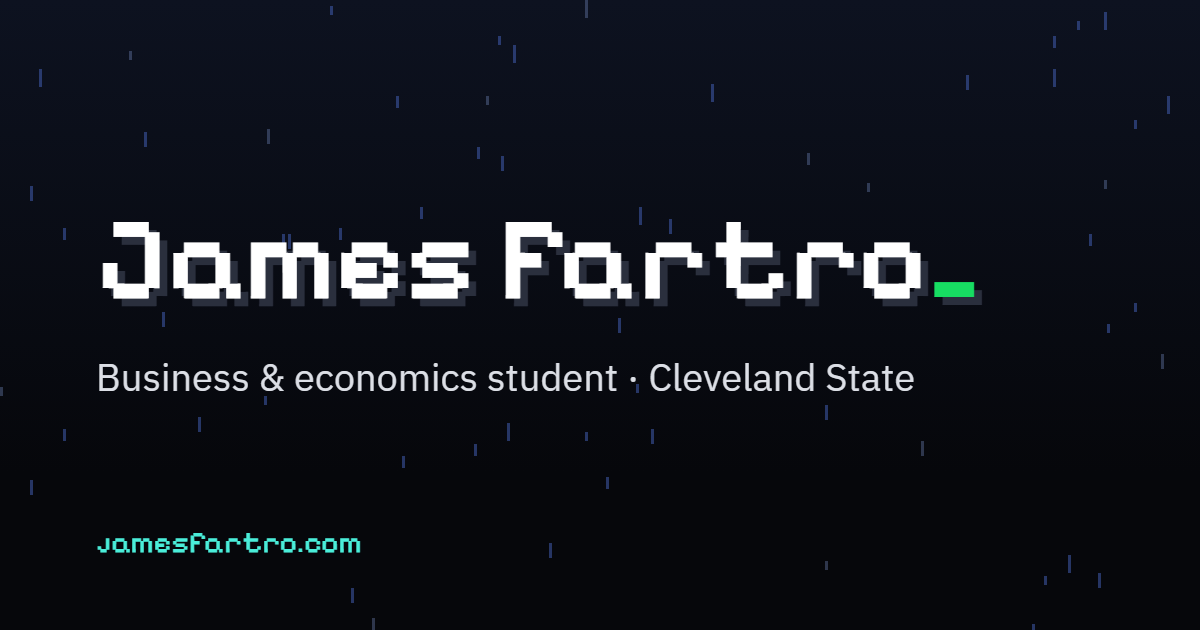
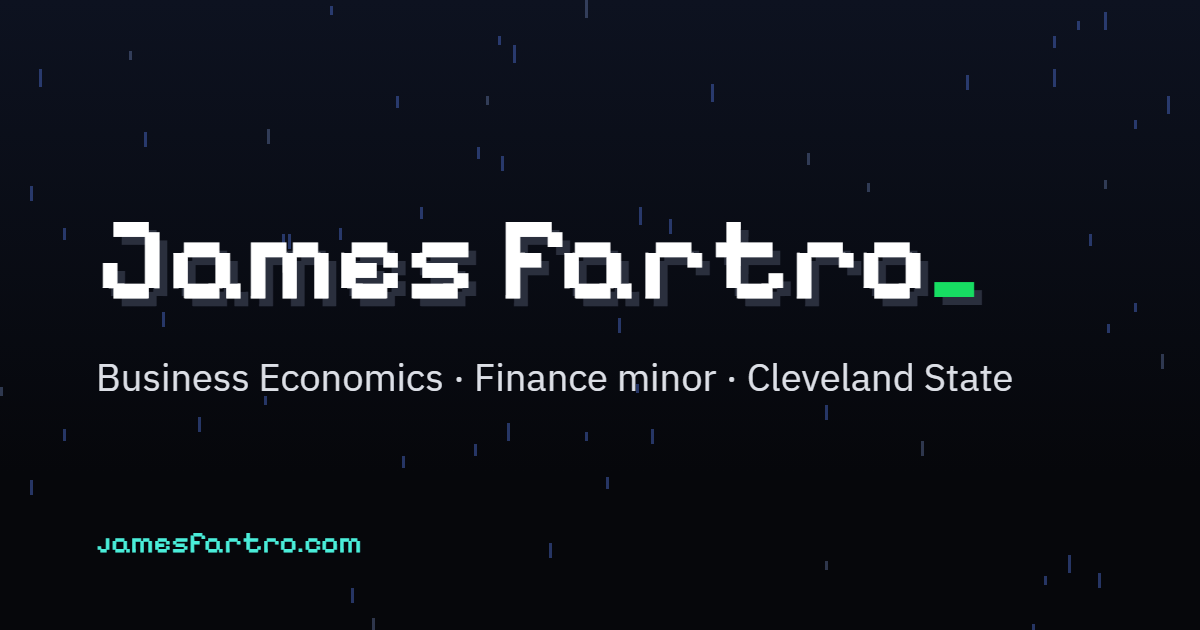
Correct major to Business Economics with a minor in Finance

Changed region(s): [[0.2158, 0.573, 0.8633, 0.6333]]

diff --git a/index.html b/index.html
@@ -4,10 +4,10 @@
 <meta charset="UTF-8">
 <meta name="viewport" content="width=device-width, initial-scale=1.0">
 <title>James Fartro</title>
-<meta name="description" content="James Fartro is a business and economics student at Cleveland State University and an IT and Finance Intern at Prosperity Capital Advisors. Projects, résumé, and contact.">
+<meta name="description" content="James Fartro is a Business Economics student with a minor in Finance at Cleveland State University and an IT and Finance Intern at Prosperity Capital Advisors. Projects, résumé, and contact.">
 <link rel="canonical" href="https://jamesfartro.com/">
 <meta property="og:title" content="James Fartro">
-<meta property="og:description" content="Business and economics student at Cleveland State. IT and Finance Intern. Projects and résumé.">
+<meta property="og:description" content="Business Economics student with a minor in Finance at Cleveland State. IT and Finance Intern. Projects and résumé.">
 <meta property="og:type" content="profile">
 <meta property="og:url" content="https://jamesfartro.com/">
 <script type="application/ld+json">
@@ -31,7 +31,7 @@
 <meta property="og:image" content="https://jamesfartro.com/images/share.png">
 <meta property="og:image:width" content="1200">
 <meta property="og:image:height" content="630">
-<meta property="og:image:alt" content="James Fartro, business and economics student at Cleveland State">
+<meta property="og:image:alt" content="James Fartro, Business Economics student at Cleveland State">
 <meta name="twitter:card" content="summary_large_image">
 <link rel="icon" href="favicon.ico" sizes="48x48">
 <link rel="icon" href="images/icon-192.png" type="image/png" sizes="192x192">
@@ -47,7 +47,7 @@
 <main class="page">
   <header>
     <h1 class="name">James Fartro<span class="cursor">_</span></h1>
-    <p class="lead">Hi, I'm James. I study business and economics at Cleveland State.</p>
+    <p class="lead">Hi, I'm James. I study Business Economics with a minor in Finance at Cleveland State.</p>
   </header>
 
   <section>

diff --git a/resume.html b/resume.html
@@ -4,7 +4,7 @@
 <meta charset="UTF-8">
 <meta name="viewport" content="width=device-width, initial-scale=1.0">
 <title>Résumé · James Fartro</title>
-<meta name="description" content="Résumé of James Fartro: Business Economics student at Cleveland State and IT & Finance intern.">
+<meta name="description" content="Résumé of James Fartro: Business Economics student with a minor in Finance at Cleveland State and IT and Finance Intern.">
 <link rel="canonical" href="https://jamesfartro.com/resume.html">
 <meta property="og:title" content="Résumé · James Fartro">
 <meta property="og:type" content="website">
@@ -13,7 +13,7 @@
 <meta property="og:image" content="https://jamesfartro.com/images/share.png">
 <meta property="og:image:width" content="1200">
 <meta property="og:image:height" content="630">
-<meta property="og:image:alt" content="James Fartro, business and economics student at Cleveland State">
+<meta property="og:image:alt" content="James Fartro, Business Economics student at Cleveland State">
 <meta name="twitter:card" content="summary_large_image">
 <link rel="icon" href="favicon.ico" sizes="48x48">
 <link rel="icon" href="images/icon-192.png" type="image/png" sizes="192x192">
@@ -30,7 +30,7 @@
   <p class="back"><a href="index.html">← home</a></p>
   <header>
     <h1 class="name">Résumé<span class="cursor">_</span></h1>
-    <p class="lead">Business Economics student at Cleveland State. IT and Finance Intern at Prosperity Capital Advisors.</p>
+    <p class="lead">Business Economics student with a minor in Finance at Cleveland State. IT and Finance Intern at Prosperity Capital Advisors.</p>
     <p class="links pdf"><a href="James-Fartro-Resume.pdf" target="_blank" rel="noopener">Download PDF</a></p>
   </header>
 
